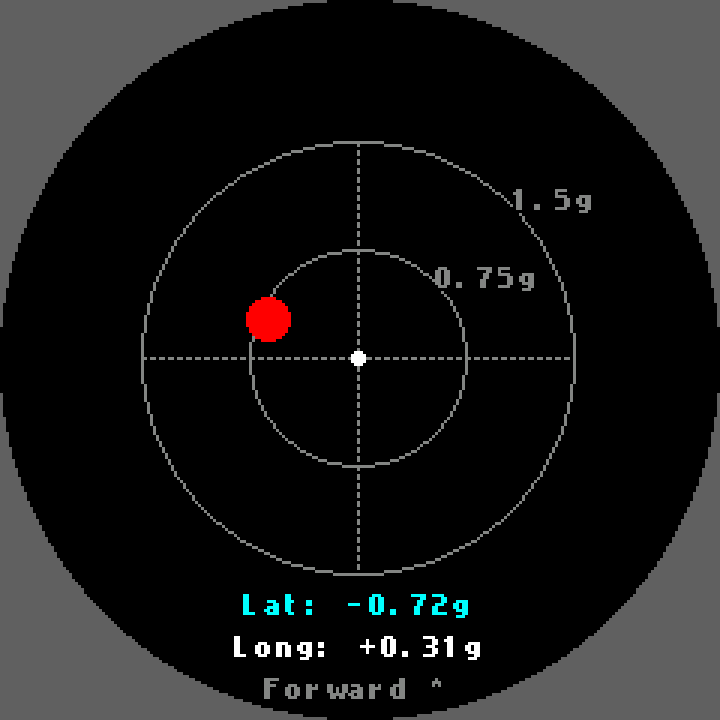
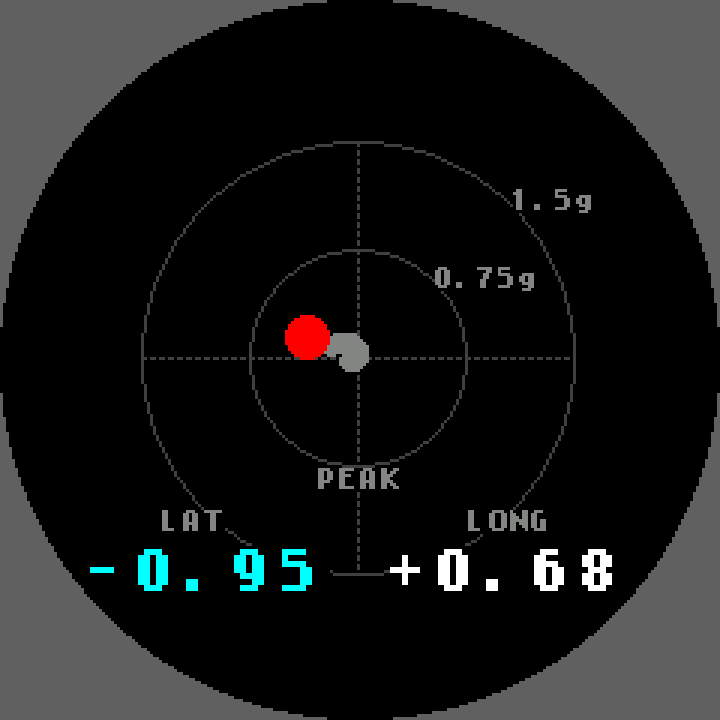
g force meter

diff --git a/src/GaugeRenderer.cpp b/src/GaugeRenderer.cpp
@@ -435,30 +435,46 @@ void renderGmeterGauge() {
   const int radius = 72;
   const int dotRadius = 7;
   const int maxDotTravel = radius - dotRadius - 2;
+  static constexpr UWORD kGmeterGridColor = 0x4208;
+  constexpr float kGmeterDisplayRange = 1.5f;
+  constexpr uint32_t kGforceTrailWindowMs = 5000;
+  constexpr uint32_t kGforcePeakWindowMs = 30000;
 
-  Paint_DrawCircle((UWORD)cx, (UWORD)cy, (UWORD)radius, GRAY, DOT_PIXEL_1X1, DRAW_FILL_EMPTY);
-  Paint_DrawCircle((UWORD)cx, (UWORD)cy, (UWORD)(radius / 2), GRAY, DOT_PIXEL_1X1, DRAW_FILL_EMPTY);
-  Paint_DrawLine((UWORD)(cx - radius), (UWORD)cy, (UWORD)(cx + radius), (UWORD)cy, GRAY, DOT_PIXEL_1X1, LINE_STYLE_DOTTED);
-  Paint_DrawLine((UWORD)cx, (UWORD)(cy - radius), (UWORD)cx, (UWORD)(cy + radius), GRAY, DOT_PIXEL_1X1, LINE_STYLE_DOTTED);
-  Paint_DrawCircle((UWORD)cx, (UWORD)cy, 2, WHITE, DOT_PIXEL_1X1, DRAW_FILL_FULL);
-
-  Paint_DrawString_EN(cx + 51, cy - 57, "1.5g", &Font_nokia_8, BLACK, GRAY);
-  Paint_DrawString_EN(cx + 25, cy - 31, "0.75g", &Font_nokia_8, BLACK, GRAY);
+  Paint_DrawCircle((UWORD)cx, (UWORD)cy, (UWORD)radius, kGmeterGridColor, DOT_PIXEL_1X1, DRAW_FILL_EMPTY);
+  Paint_DrawCircle((UWORD)cx, (UWORD)cy, (UWORD)(radius / 2), kGmeterGridColor, DOT_PIXEL_1X1, DRAW_FILL_EMPTY);
+  Paint_DrawLine((UWORD)(cx - radius), (UWORD)cy, (UWORD)(cx + radius), (UWORD)cy, kGmeterGridColor, DOT_PIXEL_1X1, LINE_STYLE_DOTTED);
+  Paint_DrawLine((UWORD)cx, (UWORD)(cy - radius), (UWORD)cx, (UWORD)(cy + radius), kGmeterGridColor, DOT_PIXEL_1X1, LINE_STYLE_DOTTED);
+  Paint_DrawCircle((UWORD)cx, (UWORD)cy, 2, kGmeterGridColor, DOT_PIXEL_1X1, DRAW_FILL_FULL);
+  drawTextFixed(cx + 51, cy - 57, "1.5g", &Font_nokia_8, GRAY, BLACK);
+  drawTextFixed(cx + 25, cy - 31, "0.75g", &Font_nokia_8, GRAY, BLACK);
 
   if (!isImuReady()) {
-    drawCenteredTextFixed(100, "IMU OFFLINE", &Font_nokia_12, RED, BLACK);
-    drawCenteredTextFixed(184, "Check QMI8658 wiring", &Font_nokia_8, GRAY, BLACK);
+    drawCenteredTextFixed(92, "IMU OFFLINE", &Font_nokia_12, RED, BLACK);
+    drawCenteredTextFixed(174, "Check QMI8658 wiring", &Font_nokia_8, GRAY, BLACK);
     LCD_1IN28_Display(BlackImage);
     return;
   }
 
+  drawStatusIfNeeded(16, GRAY);
+
   const uint32_t now = millis();
   const GForcePeak* gGforcePeakBuffer = getGforcePeakBuffer();
-  float kGmeterDisplayRange = 1.5f;
-  uint32_t kGforceTrailWindowMs = 5000;
+  float peakLateral = 0.0f;
+  float peakLongitudinal = 0.0f;
   for (size_t i = 0; i < kGforcePeakBufferSize; i++) {
     const GForcePeak& peak = gGforcePeakBuffer[i];
-    if (peak.timestampMs == 0 || (now - peak.timestampMs) > kGforceTrailWindowMs) {
+    if (peak.timestampMs == 0 || (now - peak.timestampMs) > kGforcePeakWindowMs) {
+      continue;
+    }
+
+    if (fabsf(peak.lateralG) > fabsf(peakLateral)) {
+      peakLateral = peak.lateralG;
+    }
+    if (fabsf(peak.longitudinalG) > fabsf(peakLongitudinal)) {
+      peakLongitudinal = peak.longitudinalG;
+    }
+
+    if ((now - peak.timestampMs) > kGforceTrailWindowMs) {
       continue;
     }
     const float lateral = clampFloat(peak.lateralG, -kGmeterDisplayRange, kGmeterDisplayRange);
@@ -476,16 +492,17 @@ void renderGmeterGauge() {
   Paint_DrawCircle((UWORD)dotX, (UWORD)dotY, (UWORD)dotRadius, RED, DOT_PIXEL_1X1, DRAW_FILL_FULL);
 
   char buffer[64];
-  snprintf(buffer, sizeof(buffer), "Lat: %+0.2fg", (double)getLateralG());
-  drawCenteredTextFixed(198, buffer, &Font_nokia_8, GBLUE, BLACK);
+  drawCenteredTextFixed(156, "PEAK", &Font_nokia_8, GRAY, BLACK);
+  drawTextFixed(54, 170, "LAT", &Font_nokia_8, GRAY, BLACK);
+  drawTextFixed(156, 170, "LONG", &Font_nokia_8, GRAY, BLACK);
 
-  snprintf(buffer, sizeof(buffer), "Long: %+0.2fg", (double)getLongitudinalG());
-  drawCenteredTextFixed(212, buffer, &Font_nokia_8, WHITE, BLACK);
+  snprintf(buffer, sizeof(buffer), "%+.2f", (double)peakLateral);
+  const int lateralWidth = textWidthPx(buffer, &Font_nokia_16);
+  drawTextFixed((UWORD)(70 - lateralWidth / 2), 182, buffer, &Font_nokia_16, GBLUE, BLACK);
 
-  snprintf(buffer, sizeof(buffer), "Forward ^");
-  drawCenteredTextFixed(226, buffer, &Font_nokia_8, GRAY, BLACK);
-
-  drawStatusIfNeeded(16, GRAY);
+  snprintf(buffer, sizeof(buffer), "%+.2f", (double)peakLongitudinal);
+  const int longitudinalWidth = textWidthPx(buffer, &Font_nokia_16);
+  drawTextFixed((UWORD)(170 - longitudinalWidth / 2), 182, buffer, &Font_nokia_16, WHITE, BLACK);
 
   LCD_1IN28_Display(BlackImage);
 }

diff --git a/tools/host/preview_main.cpp b/tools/host/preview_main.cpp
@@ -1,4 +1,5 @@
 #include <algorithm>
+#include <cmath>
 #include <cstdint>
 #include <cstdio>
 #include <cstdlib>
@@ -84,6 +85,17 @@ int main(int argc, char** argv) {
   }
   values["lateralG"] = lateralG = values["lateralG"];
   values["longitudinalG"] = longitudinalG = values["longitudinalG"];
+  // Preview a recent 5-second trail plus optional older 30-second peaks.
+  // peakLat/peakLong default to the current values when not supplied.
+  const float previewPeakLat = values.count("peakLat") ? values["peakLat"] : lateralG;
+  const float previewPeakLong = values.count("peakLong") ? values["peakLong"] : longitudinalG;
+  for (size_t i = 0; i < 50; i++) {
+    const float fade = 1.0f - (float)i / 60.0f;
+    peaks[i] = {lateralG * fade + 0.12f * sinf((float)i * 0.45f),
+                longitudinalG * fade + 0.08f * cosf((float)i * 0.45f),
+                fakeMillis - (uint32_t)(i * 100)};
+  }
+  peaks[50] = {previewPeakLat, previewPeakLong, fakeMillis - 15000};
   obdValues.rpm=(uint16_t)std::clamp(values["rpm"],0.0f,65535.0f);
   obdValues.vehicle_speed_kmh=(uint8_t)std::clamp(values["speed"],0.0f,255.0f);
   cfg.type = type=="shiftlight"?GAUGE_TYPE_SHIFTLIGHT:type=="gmeter"?GAUGE_TYPE_GMETER:GAUGE_TYPE_STANDARD;

diff --git a/src/Sensors.cpp b/src/Sensors.cpp
@@ -23,7 +23,7 @@ static volatile float gLongitudinalOffsetG = 0.0f; // Ambient calibration offset
 static volatile float gLateralOffsetG = 0.0f;      // Ambient calibration offset for lateral G
 static volatile bool gImuReady = false;            // System flag indicating whether QMI8658 initialized successfully
 
-static GForcePeak gGforcePeakBuffer[kGforcePeakBufferSize] = {}; // Ring buffer for trailing G-force peak history
+static GForcePeak gGforcePeakBuffer[kGforcePeakBufferSize] = {}; // 30-second G-force history ring buffer
 static size_t gGforcePeakIndex = 0;                              // Active index in G-force peak ring buffer
 static uint32_t gLastPeakSampleMs = 0;                           // Timestamp tracking the last peak buffer sample
 static constexpr uint32_t kGforcePeakSampleIntervalMs = 100;    // Peak buffer sampling interval (10Hz)

diff --git a/include/Sensors.h b/include/Sensors.h
@@ -26,5 +26,6 @@ struct GForcePeak {
   float longitudinalG;
   uint32_t timestampMs;
 };
-constexpr size_t kGforcePeakBufferSize = 50;
+// 10 Hz samples retained for 30 seconds of peak-history calculations.
+constexpr size_t kGforcePeakBufferSize = 300;
 const GForcePeak* getGforcePeakBuffer();

diff --git a/tools/README.md b/tools/README.md
@@ -19,6 +19,11 @@ metric has the form `source,prefix,suffix,y[,dynamic]` and can be repeated.
 Pixels outside the physical round LCD are shown in grey by the PNG converter;
 the in-bounds image remains the exact production RGB565 framebuffer.
 
+For G-meter previews, pass optional `--value peakLat=-0.95` and
+`--value peakLong=0.68` values to simulate a stronger reading from within the
+30-second peak window. The current `lateralG`/`longitudinalG` values create the
+recent dot trail.
+
 ## What updates automatically
 
 Changes inside the existing production renderer functions, drawing primitives,
